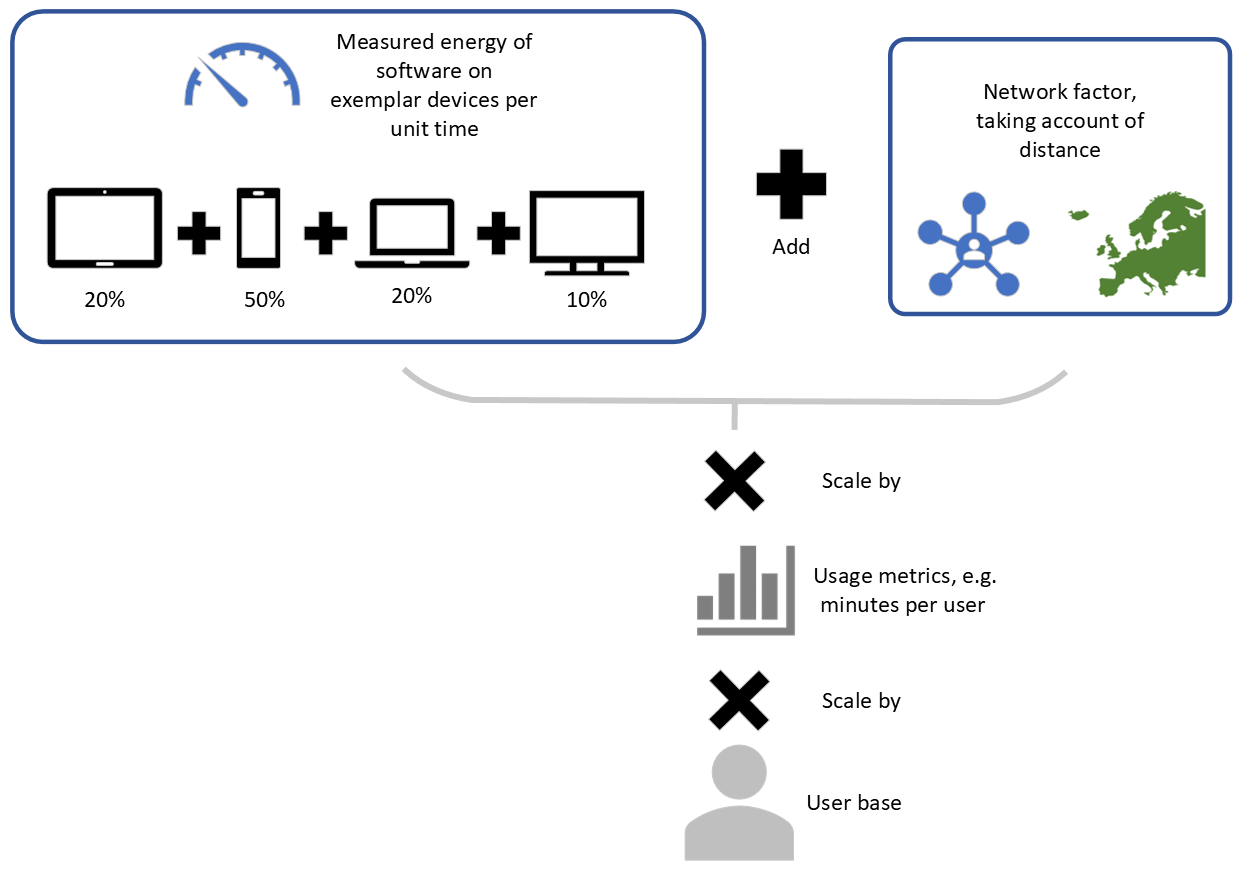
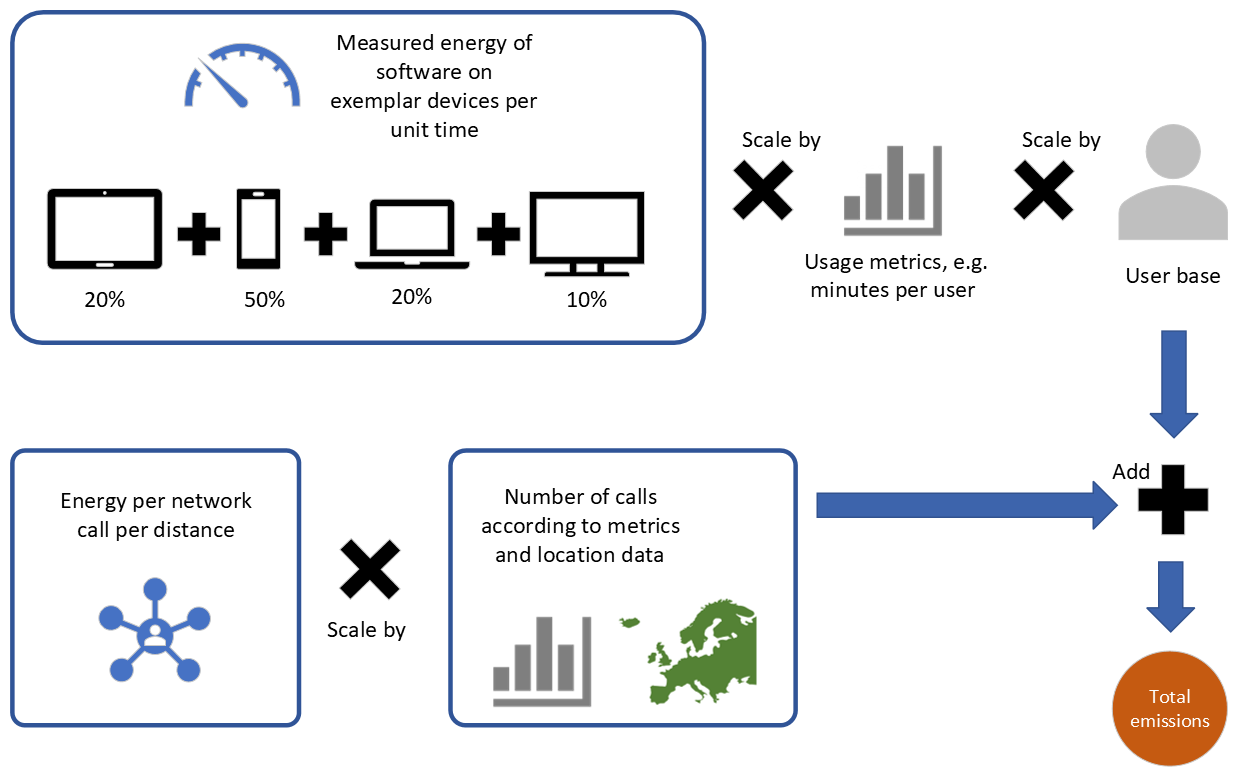
Further improvements to estate mapping

diff --git a/pages/information/estate.md b/pages/information/estate.md
@@ -9,7 +9,7 @@ published: true
 
 This page discusses how to apply the Tech Carbon Standard (TCS) to an organisation. Whilst the main [TCS diagram](https://www.techcarbonstandard.org/) specifies the different categories of technology emissions that should be recorded it doesn't explain how to go from an organisational view to numbers in each of the categories. This following sections address this and do so from 2 perspectives:
  1. Quantifying your tech carbon emissions at the org level - typically for reporting
- 2. Understanding how to improve them
+ 2. Understanding how to reduce them
 
 The second requires an understanding not just of the absolute number across the org but also of where emissions fall from a team and service perspective so that emissions improvements can be driven by the teams who can affect them.
 
@@ -94,13 +94,13 @@ Starting with on-prem hardware, many organisations will have some or all of the 
 
 <img style="max-width: 650px" class="none" alt="" src="/assets/images/estate/On-prem-extended.png" />
 
-A the top the diagram shows there may be multiple sites and each has a geographical location so the different sites could be in multiple countries which will impact the operational emissions. A given site could be a dedicated data centre or a more general location that includes technology components. This may include a dedicated server room but could also be odd pieces of hardware in the office. It would be expected that the dedicated site provided the bulk of emissions then the server rooms and then finally the miscallaneous equipment so it may be better to start on the left in mapping out an organisation. Note that on-site monitors and desktops are handled under organisation user devices later but could be included here - there's valid reasons for both approaches
+The top of the diagram shows there may be multiple sites and each has a geographical location which will impact the operational emissions due to varying carbon intensity. Next, it shows that a given site could be a dedicated data centre or a more general location that includes technology components. For example there may be a dedicated server room and/or odd pieces of hardware in the office. As indicated by the arrow at the bottom it would be expected that the dedicated site accounts for the bulk of emissions then the server rooms and then finally the miscallaneous equipment and so prioritisation should be done accordingly in mapping out an organisation. Note that on-site monitors and desktops are covered under organisation user devices later but could have been included here - there's valid reasons for both approaches.
 
-To get a complete picture of emissions all sites, their locations and all hardware within those sites must be identified as well as a PUE for each one. More detail is provided in the following sections.
+To get a complete picture of emissions all sites, their locations and all hardware within those sites must be identified as well as a <a href="/glossary#power-usage-effectiveness-pue">PUE</a> for each one to capture factors like server cooling. More detail on how to do this is provided in the following sub-sections.
 
 {% include linkedHeading.html heading="Device databases" level=3 %}
 
-In order to understand all the servers, networking devices etc the ideal data sources are configuration management databases (CMDBs) from robust IT asset management processes or platforms such as [ServiceNow](https://www.servicenow.com/uk/). 
+In order to understand all the servers, networking devices etc the ideal data source is a configuration management databases (CMDB) where robust IT asset management processes ensure that it is up to date with accurate and complete information. Various solutions exist including from Service Now, IBM, Microsoft and others. 
 
 In cases where data is incomplete, extrapolation from partial datasets can provide reasonable estimates. These sources may include partially completed asset management records, historic procurement data on devices purchased, employee headcounts per office location, or generic device-to-employee ratios based on job roles.
 
@@ -108,48 +108,56 @@ The accuracy of the underlying data will directly impact the precision of emissi
 
 {% include linkedHeading.html heading="Embodied emissions" level=3 %}
 
-Embodied emissions should be based on the asset database or approximations described above. Ideally the database includes manufacturer data about each asset's embodied carbon. Where this is not present approximations may be used based on typical values. See <a href="/information/lifecycle/example/server">Server example</a>
-The cooling and lighting boxes are in a different shade of green as these are out of the scope of the TCS for embodied emissions - you should still calculate them for full <a href="/glossary#greenhouse-gas-ghg-protocols">GHGP Scope 3</a>, it's just that this standard doesn't discuss them as they are not tech specific.
+Embodied emissions should be based on the asset database or approximations described above and ideally the CMDB records will include manufacturer data about each asset's embodied carbon although this isn't common yet. Where this is not present approximations may be used based on typical values - see <a href="/information/lifecycle/example/server">Server example</a> for some suggestions around how to do this. 
+
+In the earlier diagram the cooling and lighting boxes were in a different shade of green because they are not technology hardware but general purpose equipment that support it. For embodied emissions they are out of the scope of the TCS but you should still calculate them for full <a href="/glossary#greenhouse-gas-ghg-protocols">GHGP Scope 3</a> emissions. 
 
 {% include linkedHeading.html heading="Operational emissions - reporting" level=3 %}
 
 If an organisation needs to report the total company emissions including any technology ones then the task can be reduced to identifying all sites and then getting the electricity usage for them and the carbon intensity at that site. Where an office is leased and the organisation isn't directly billed then the overall building electricity bill should be divided up and attributed to each org by a measure such as employee count or square footage - though the latter is better suited to heating costs. 
 
-When reporting is wanted on technology specifically, e.g.if a CTO is asked to provide the emissions of all the teams and hardware that they are responsible for then the task is trickier.  
+When reporting is wanted on technology specifically, e.g.if a CTO is asked to provide the emissions of all the teams and hardware that they are responsible for then the task is more complex and discussed below. In an optimal scenario all equipment is actively measuring power and reporting back on this to a central location but this is not normally done today and so approximations must be made. 
 
-__Data centres__: Assuming no other organisation has equipment in this it should be the simplest case because as above the operational emissions can come directly from the building electricity usage which should be much more accurate than trying to approximate power for many different device classes. 
+Unlike for the embodied calculation the operational one must take account of the location and the electricity mix at that location including any on-site generators or renewables. 
 
-__Server rooms__: in an office or facility may or may not be measurable in isolation.  In the other cases it must be derived from the equipment database or approximated somehow, e.g. if rough numbers for lighting and non-IT electricity draw are known.  Unlike for the embodied calculation the operational one must take account of the location and the electricity mix at that location including any on-site generators or renewables. 
+__Data centres and server rooms__: Assuming only one organisation has equipment in the data centre this should be the simplest case because this is the one case where operational emissions can come directly from the building electricity usage. Otherwise this is the same as for a server room where the device inventory data must be used to get approximate numbers based on device power use.  
 
-For a data centre or server room the cooling, lighting etc are shown in a different shade in the above diagram as they are not tech products and for this reason they are not discussed in this standard. Nonetheless, in calculating your total operational emissions they should be included and it is standard when discussing data centre energy and emissions to include a PUE multiplier relating the compute/networking electricity from the supporting electricity for cooling and other devices. In fact it may be tricky to isolate these periphery devices for a data centre where they'll form part of the power draw. 
+In the embodied carbon section the building, heating, lighting etc for a data centre was out of scope because this standard is designed to help understand and optimise hardware and software. Nonetheless, in calculating total operational emissions for a data centre or anything at scale then it is conventional to include this for 2 reasons:
+ * It may be tricky to isolate these periphery devices for a data centre where they'll form part of the power draw
+ * When comparing the efficiency of cloud vs on-prem PUE is typically included because it can make a significant difference
+     *  e.g. 1.6 vs 1.2 for example respectively. (but bear in mind there can be negatives like more water usage).
+     * for embodied carbon there's no equivalent comparison of all the building and facility carbon
 
-__Office__: This is the most complicated scenario because there may be user laptops, monitors, lighting, heating etc as well as any server and networking hardware for running software. An aggregate measurement of operational emissions like the data centre electricity is not practical here if you want to specifically provide numbers for a particular device class. In this case the device database or approximations should also be employed and again real numbers for power usage and utilisation are preferred on a device by device basis but approximations can be made based on measuring one or two typical devices and applying to all.  
 
-{% include linkedHeading.html heading="Operational and embodied emissions - improvement" level=3 %}
+__Office__: This is the most complicated scenario because there may be user laptops, monitors, lighting, heating etc as well as any server and networking hardware for running software. An electricity measurement is not practical if you want to specifically provide numbers for a particular device class. In this case the device database or approximations should also be employed. 
+
+ When approximating power consumption one-off measurements can be used or data sheet information (combined with utilisation if not at max power all the time) and then this can be scaled out to capture the effect of all devices. 
+
+{% include linkedHeading.html heading="Reducing operational and embodied emissions" level=3 %}
 
 <img style="max-width: 650px" class="none" alt="" src="/assets/images/estate/business_services_breakdown.png" />
 
-In order to go beyond reporting and improve emissions it is necessary not just to to map out the hardware infrastructure owners but also the owners of the software running on the hardware because improvements can come from better software implementations as well as procuring more efficient hardware. In the business IT services diagram earlier, the business applications block can be broken down into various services offered by the business that are in turn implemented by particular applications (not shown) that are ultimately owned by particular technology teams who have the responsibility for developing and/or maintaining those applications (or for SaaS own the relationship).
+In order to go beyond reporting and improve emissions it is necessary not just to to map out the hardware infrastructure owners but also the owners of the software running on the hardware because improvements can come from better software implementations as well as procuring more efficient hardware. In the business IT services diagram earlier, the Business Applications block can be broken down into various services offered by the business that are in turn implemented by particular applications (not shown) that are ultimately owned by particular technology teams who have the responsibility for developing and/or maintaining those applications (or for SaaS own the relationship).
 
 With this in mind a more detailed mapping of the on-prem estate can be considered:
 
 <img style="max-width: 650px" class="none" alt="" src="/assets/images/estate/on-prem-responsibilities.png" />
 
-The diagram above presents the more complex mapping where improvement is required rather than just carbon reporting at org or tech function level. In this case there are layers for any virtualisation and then clustering that sit on top of the physical servers and then ultimately the applications belonging to different business application teams. 
+The diagram above presents the more complex mapping where improvement is required rather than just carbon reporting at org or tech function level. In this case there can be layers for virtualisation on top of the physical servers and/or clustering and then ultimately the applications belonging to different business application teams. 
 
-In this case the mapping must also take account of the layers that the Platform teams have added, e.g. a Kubernetes cluster and then the apps. Operational and embodied emissions should be assigned to particular apps either directly or directly via metrics such as utilisation and memory usage - exactly what to use it out of the scope of the TCS and for individual orgs to decide because it is heavily dependent on implementation. The key point for the estate mapping perspective is to relate the emissions to teams at different levels so that they can make improvements. e.g. the Platform team providing higher utilisation via containerisation or application owners with more efficient server code. 
+In this case the mapping must also take account of the layers that the Platform teams have added, e.g. a Kubernetes cluster and then the apps. Operational and embodied emissions should be assigned to particular apps either directly or indirectly via metrics such as utilisation and memory usage - exactly what to use is out of the scope of the TCS and for individual orgs to decide because it is heavily dependent on implementation. The key point for the estate mapping perspective is to relate the emissions to teams at different levels so that they can make improvements. e.g. the Platform team providing higher utilisation via containerisation or application owners with more efficient app code. 
 
 {% include linkedHeading.html heading="Cloud" level=2 %}
-Mapping out the cloud emissions should generally be a lot simpler than for on-prem hardware. A typical organisation will have a structure like the following:
+Mapping out the cloud emissions should generally be a lot simpler than for on-prem hardware. A typical organisation will have a cloud structure like the following:
 
 <img style="max-width: 750px" class="none" alt="" src="/assets/images/estate/cloud_structure.png" />
 
-Where terminology for the same concept various across the 3 largest providers this is included on the left. As shown there's usually an org level object and then a set of sub-objects that will often line up with organisational structure and the leaves of the tree are resources such as object storage buckets or VMs. Cloud reporting tools from the main cloud service providers (CSPs) or the Cloud Carbon Footprint (CCF) (see <a href="/information/cloud">Cloud</a>) will be able to provide a number at the root for the whole organisation. 
+Where terminology for the same concept varies across the 3 largest providers the alternative names are included on the left. As shown there's usually an org level object and then a set of sub-objects that will often line up with organisational structure and the leaves of the tree are resources such as object storage buckets or VMs. Cloud reporting tools from the main cloud service providers (CSPs) or the Cloud Carbon Footprint (CCF) (see <a href="/information/cloud">Cloud</a>) will be able to provide a number at the root for the whole organisation. 
 
 Where an organisation actually has multiple hierarchies, i.e. 1 real organisation to 2+ cloud ones these must all be identified and reported separately.  
 
-{% include linkedHeading.html heading="Improvement" level=3 %}
-As with data centres, improvement requires mapping of usage to business divisions and the development teams that own the services. The CSP tools and CCF will be able to report at the various levels of hierarchy down to Account. Complexities can arise in a couple of ways:
+{% include linkedHeading.html heading="Reducing emissions" level=3 %}
+As with data centres, reducing emissions requires mapping of usage to business divisions and the development teams that own the services. The CSP tools and CCF will be able to report at the various levels of hierarchy down to Account. Complexities can arise in a couple of ways:
  1. Where teams in the business don't align with cloud accounts or sub-orgs. One way this can happen is if many teams share an account and then tag with the owner. Some CSPs will include tag level data but some won't and nor will CCF and this will limit the ability to assign emissions to teams. 
  2. Some services may be provided by a platform team and shared across many applications, e.g. a database
 
@@ -157,39 +165,34 @@ In both cases proxies like spend, system utilisation can be used instead or numb
 
 
 
-{% include linkedHeading.html heading="Employee devices" level=2 %}
+{% include linkedHeading.html heading="Internal user devices" level=2 %}
 
-In this section the technology used by people is discussed and this may include the following more common devices:
+This section covers the technology used by the people internal to the organisation (not customers) where those people would typically be staff but could also be contributors to an open source project. 
+Their technology may include the following more common devices:
 
 <img style="max-width: 750px" class="none" alt="" src="/assets/images/estate/employee_devices.png" />
 
-Ownership, usage and location patterns will often differ compared to the servers and networking devices in the on-prem section:
+Ownership, usage and location patterns will often differ compared to the on-prem servers and networking devices in the following ways:
 
 * Usage will generally be based around office hours
 * User devices are assigned to individuals (or occasionally a team, e.g. a test device or TV) which makes attribution to teams much easier than for servers that may belong to a platform team but run multiple business apps from other teams
-* Although some devices will be in a fixed office/facility location, e.g. a desktop, others including laptops are mobile. Also monitors may be in a fixed home working location. 
-* For home devices staff or internal users (perhaps in an open source project) could be using their own monitors/equipment rather than ones purchased for them by the organisation. 
+* Although some devices like a desktop will be in a fixed office/facility location, others like laptops are mobile. Monitors may be in a fixed home working location as well or office. 
+* For home devices internal users could be using their own monitors/equipment rather than ones purchased for them by the organisation. 
 
-Note: occasionally it may be arguable as to whether a device belongs here or in on-prem and it doesn't matter so long as they are included. For example TVs maybe specific to a user, e.g, for testing a smart TV application but could also be providing a dashboard in the office in which case they are likely a permanent always on fixture like servers.  
+Note: occasionally it may be arguable as to whether a device belongs in this grouping or in on-prem and it doesn't matter so long as they are included - the category doesn't change. For example TVs may be specific to a user when provided for testing a smart TV application but could also be providing a dashboard in the office in which case they are likely a permanent always on fixture like servers.  
 
-
-
-<s>and these differ from the previously discussed servers, networking and cloud in terms of location, usage patterns and also because they are not usually running a specific application belonging to a specific business team (e.g. online payments) as with servers.</s>
-
- <s> From a pure reporting point of view most of these emissions may be accounted for in electricity usage numbers. </s> 
 
 {% include linkedHeading.html heading="Operational emissions - special case" level=4 %}
-As per the on-prem section, there is a special case for reporting operational emissions where all the organistion wants to do is report Scope 1 or 2 emissions at org or office/facility level and doesn't want to break out technology. In this case all the office/on-prem devices (including times when laptops are in the office and plugged in) will be included in the office electricity. In the remaining discussion it is assumed that the reporting should include a tech breakdown and that embodied (i.e. GHGP Scope 3) is needed as well as operational emissions.
+As per the on-prem section, there is a special case for reporting <em>operational</em> emissions where all the organistion wants to do is report Scope 1 or 2 emissions at org or office/facility level and doesn't want to break this down into technology classes. In this case all the office/on-prem devices (including times when laptops are in the office and plugged in) will be included in the office electricity. In the remaining discussion it is assumed that the reporting should include a tech breakdown and that embodied (i.e. GHGP Scope 3) is needed as well as operational emissions.
 
 {% include linkedHeading.html heading="Device inventory" level=3 %}
-All equipment purchased by the organisation should be available via an asset management system, as mentioned in the on-prem section. Where this isn't present approximations will be needed based on employee numbers. For user devices the data should include the location which may be not just a specific office or org facility but whether it is for remote working or both in the case of a laptop. This matters because electricity carbon intensity may be different. 
+All equipment purchased by the organisation should be available via a CMDB or some similar asset management system, as mentioned in the on-prem section. Where this isn't present approximations will be needed based on employee numbers. For user devices the data should include the location which may be not just a specific office or org facility but whether it is for remote working or both in the case of a laptop. This matters because electricity carbon intensity may be different. 
 
-For user purchased devices (e.g. personal laptop or monitor) numbers are still needed. For laptops this can be approximated by assuming all users without an org laptop or desktop have a personal one. For monitors, a survey may be done of a subset of staff then extrapolated to get the typical number of monitors and their size. General population data could be used but may underestimate for staff like developers. 
-Similarly for personal laptops or desktops a survey will help understand the typical specs in order to provide some average numbers that can scaled across the population.
+For user purchased devices (e.g. a personal laptop or monitor) numbers are still needed. For laptops this can be approximated by assuming all users without an org laptop or desktop have a personal one. For monitors, a survey may be done of a subset of staff then extrapolated to get the typical number of monitors and their size and the same for for personal laptops to understand the most common specs in order to provide some average numbers that can scaled across the population. Where you have no data from employees and are approximating based on general purpose data about most popular laptops or monitors bear in mind that developers may have slightly higher spec equipment as the use case is more demanding than basic web use. 
 
 {% include linkedHeading.html heading="Reporting" level=3 %}
 
-Given that not all devices are organisation purchased this affects how emissions should be reported and is captured in the following table. This shows that embodied carbon is only for organisation devices with the assumption being that user personal laptops would be purchased anyway and can't be attributed. 
+Given that not all devices are organisation purchased this affects how emissions should be reported and is captured in the following table. This shows that embodied carbon is only captured for organisation purchased devices with the assumption being that personal laptops would be purchased anyway and can't be attributed. 
 
 
 <style>
@@ -211,18 +214,18 @@ Given that not all devices are organisation purchased this affects how emissions
 </tr>
 <tr>
     <td>User</td>
-    <td>Yes</td>
+    <td>No</td>
     <td>Yes</td>
 </tr>
 </table>
 
-Ideally embodied carbon will fall directly out of the inventory data and should be combined with device lifetime information. e.g. if a company laptop is refreshed every 5 years then the embodied carbon for al devices should be divided by 5. Where embodied carbon is not included in the inventory or can't quickly be derived through cross referencing data sheets, then approximations can be made using emissions data for similar hardware. e.g. if you have 200 desktops and the manufacturer doesn't provide a value then take a desktop of similar spec and age that does and use the value from that. Such approximations should be explicitly captured. 
+Ideally embodied carbon will come directly from CMDB inventory data and then be combined with device lifetime information. e.g. if a company laptop is refreshed every 5 years then the embodied carbon for all devices should be divided by 5 for an annual amount. Where embodied carbon is not included in the inventory or can't be quickly be derived through cross referencing data sheets, then approximations can be made using emissions data for similar hardware. e.g. if you have 200 desktops and the manufacturer doesn't provide a value then take a desktop of similar spec and age that does and use the value from that. Such approximations should be explicitly captured. 
 
-For operational emissions the ownership of the device doesn't matter like for embodied carbon, but whether the user is using the device for non-personal reasons does. For example, for a laptop working hours emissions should be captured but not weekend browsing. For all the devices that are mobile or home based the electricity carbon intensity should come from the regional level whereas for fixed office/facility items more accuracy may be possible, e.g. if an office is known to be 50% solar on average. 
+For operational emissions the ownership of the device doesn't matter, but whether the user is using the device for non-personal reasons does. For example, working hours emissions should be captured for a laptop but not weekend browsing. For all the devices that are mobile or home based the electricity carbon intensity should come from the regional level whereas for fixed office/facility items more accuracy may be possible, e.g. if an office is known to be 50% solar on average. 
 
-Energy usage can come from the information in the inventory and as with the embodied carbon this may be directly in the inventory or need looking up in data sheets. Ideally laptops and desktops would actually capture energy usage but this is unlikely to the the case for most organisations today.
+As for embodied carbon energy usage can come from the information in the inventory or be looked up in data sheets. 
 
-Care should be taken to avoid double counting any equipment. For example for monitors assumptions will be required based on how often users will be in the office vs at home and emissions only attributed to one of the 2 at a given point in time. 
+Care should be taken to avoid double counting any equipment. For example, when reporting monitor emissions assumptions will be required based on how often users will be in the office vs at home and emissions only attributed to one of the two at a given point in time. 
 
 The table below captures some of the things to consider for various device types:
 
@@ -239,12 +242,12 @@ The table below captures some of the things to consider for various device types
 </tr>
 <tr>
     <td>Desktops</td>
-    <td>Device power, working hours, average CPU utilisation</td>
+    <td>Device max power and average CPU utilisation (or average measured power), working hours</td>
 </tr>
 
 <tr>
     <td>Laptops</td>
-    <td>Device power, working hours, average CPU utilisation, percentage of time outside the office</td>
+    <td>Device max power and average CPU utilisation (or average measured power), working hours, percentage of time outside the office</td>
 </tr>
 <tr>
     <td >Monitors</td>    
@@ -263,14 +266,15 @@ The table below captures some of the things to consider for various device types
     <td>Device power consumption and usage, e.g. 2 hours a day</td>
 </tr>
 </table>
-Device power may be specific or for 1 or 2 exemplar devices where not available which will always be the case for user owned devices. 
+Device power may be specific or if this isn't available for all devices then estimated based on for 1 or 2 exemplar devices - this will always be the case for user owned devices. 
  
 
-{% include linkedHeading.html heading="Improving" level=3 %}
-For servers and cloud the analysis for improvement was more complex than reporting but the opposite is true for devices. In the case of servers there was not just the question of hardware embodied emissions and harware energy consumption but also the way the servers were utilised and the efficiency of the software running on them. That software could in turn be mapped to teams who managed or developed it. 
+{% include linkedHeading.html heading="Reducing emissions" level=3 %}
+For servers and cloud the analysis for reducing emissions was more complex than reporting but the opposite is true for devices. In the case of servers there was not just the question of hardware embodied emissions and harware energy consumption but also the way the servers were utilised and the efficiency of the software running on them. That software could in turn be mapped to teams who managed or developed it. 
 
-Clear this isn't the case for monitors but also for laptops the software running on them isn't the main concern as the bulk of the carbon will be from their manufacture not the use (TODO insert link).
-User owned devices (like personal laptops) can be ignored and the focus can be on changing the default choices of device purchased by the org. e.g. if there are 1 or 2 procurement teams then all that matters is the choices of devices bought, their longevity and disposal. 
+Clearly this isn't the case for monitors but also for laptops the software running on them isn't the main concern as the 
+<a href="/information/lifecycle#embodied-vs-usage-carbon">bulk of the carbon will be from their manufacture not the use</a>.
+User owned devices (like personal laptops) can be ignored. Therefore, for reducing emissione the focus will be on procurement policy and on changing the default choices of device purchased by the org. e.g. if there are 1 or 2 procurement teams then all that matters is the choices of devices bought, their longevity and disposal. 
 
 {% include linkedHeading.html heading="End user devices" level=2 %}
 As a reminder, this is primarily about the emissions caused by consumers using the organisation's services. Popular games and social media apps in particular may cause users to spend additional hours every week on their phone/tablet/device, using electricity as they do. 
@@ -280,11 +284,11 @@ There's broadly 3 types of end user/consumer device:
  * IoT devices which may be provided by the organisation selling the software
  * Servers for service to service communication
 
-The following sections go through each of these. A judgement should be taken as to whether the downstream emissions are worth calculating in any depth. For example, if customer numbers are in the hundreds or less or if API calls are in the thousands per day it is quite likely these emissions will just be noise vs other tech emissions. On the other hand, a video streaming or gaming app with hundreds of thousands of users using the app for hours at shouldn't be ignored. Start with rough approximations based on the information in <a href="/categories/downstream">Downstream</a> and what follows before deciding whether to go any further. 
+The following sections go through each of these. A judgement should be taken as to whether the downstream emissions are worth calculating in any depth. For example, if customer numbers are in the hundreds or less or even if API calls are in the thousands per day it is quite likely these emissions will just be noise vs other tech emissions. On the other hand, a video streaming or gaming app with hundreds of thousands of users using the app each day for hours a time shouldn't be ignored. Start with rough approximations based on the information in <a href="/categories/downstream">Downstream</a> and the following sub-sections before deciding whether to go any further. 
 
 
 {% include linkedHeading.html heading="Consumer devices" level=3 %}
-
+The picture below illustrates the process of working out your total emissions from consumer devices: 
 <img style="max-width: 650px" class="none" alt="" src="/assets/images/estate/devices_process.png" />
 
 As described in <a href="/information/lifecycle/user">Hardware Emissions</a> it should be possible to obtain estimates of average energy usage per unit time for an app or site on various device types. e.g. via Firefox profiling for a website/app on 2 or 3 common laptops. This will then need scaling across the user base. 
@@ -320,18 +324,19 @@ The precise details of all the phones, tablets etc running your software or acce
 </tr>
 </table>
 
-Where this isn't all available a rough approximations can still be made, e.g. if you don't know the device breakdown there may be public info about content consumption via device for similar websites or apps.
+Where this isn't all available a rough approximations can still be made, e.g. if you don't know the device breakdown there may be publicly available info for similar websites or apps.
 
 With this information the average energy on device of a particular type (like tablet) in a given time period (e.g. per minute) can be multiplied by the data about number of devices and average usage per day/week/year. Location data can then be used to get carbon intensity for the users in order to provide the final emissions.
 
-For networking energy you may look at app the metrics for APIs called to understand total traffic across endpoints or you can use device analytics to capture total data sent from the app. With the former you'll need to aggregate metrics from lots of serverside locations - some of which for SaaS endpoints may not be in your control. The alternative option of using device analytics will allow you to get all network traffic in one go although you may still want to break this down, e.g, if one heavily hit endpoint is running the other side of the world and so more energy intensive vs others in the same country. 
+For networking energy, metrics for server-side API calls would be one way to understand total traffic across endpoints but it does mean there's a need to aggregate metrics from lots of server-side locations - some of which could be SaaS and unavailable. Alternatively device analytics can capture total data sent from the app which will allow all network traffic to be provided in one go whilst still allowing for a breakdown to show what endpoints are generating the most traffic. 
 
+A more basic option would be to analyse the typical network activity per minute of app interaction and just add this on to the device energy usage as an extra factor before scaling by time and the user count. 
 
 {% include linkedHeading.html heading="IoT" level=3 %}
-An example of this would be a smart camera or a sensor. This is very similar to consumer devices for energy usage except that:
+An example of this would be a smart camera or a sensor. The key differences to the consumer devices discussed above are:
 
- * the devices being used are known - unlike the hundreds of laptop models
- * usage patterns will be different but known, e.g. on all the time but in low power mode with a regular awake and check cycle or powerup-on-activity
+ * the devices being used are known - unlike the hundreds of potential laptop models
+ * usage patterns will be different but known, e.g. on all the time or in low power mode with a regular awake and check cycle
 
 For these reasons it should be easier to get an accurate energy per device for IoT devices. 
 
@@ -346,30 +351,30 @@ Rather than a consumer or user in another business using an organisation's servi
 In this case the only information available will be the number of API calls and possibly location data, either from knowledge of the customer or based on IP lookups. 
 
 
-{% include linkedHeading.html heading="Improvement" level=3 %}
-Starting with device energy (as opposed to network) where improvement is needed then the same data is useful as per the reporting - energy on device types for typical usage scaled out by the number of users and devices. Location doesn't matter here as it can't be controlled for customers.
+{% include linkedHeading.html heading="Reducing emissions" level=3 %}
+To reduce device energy (as opposed to network) the same data is useful as per the reporting, that is the energy on typical device types for typical usage scaled out by the number of users and devices. Location doesn't matter for the purpose of reducing emissions as it can't be controlled for customers.
 
-Normally a site or app will be owned by a particular team so this is much easier to map than for servers running the software of many teams. The exception is a micro-frontend architecture or an app with many plugins where certain pages or page sections are very power hungry compared to others. This should be possible to identify via energy profiling so that the total energy can be attributed to the separate pages and teams for driving improvement. 
+Normally a site or app will be owned by a particular team so this is much easier to map than for servers running the software of many teams. The exception is a micro-frontend architecture or an app with many plugins where certain pages or page sections are very power hungry compared to others. The power hungry pages should identifiable via energy profiling so that the total energy can be attributed to the separate pages and teams for driving improvement. 
 
-For networking, API endpoints should be mapped to business services and the development teams or SaaS products responsible. e.g. an app calls 15 different services but 80% of traffic is to one of them then 80% of emissions can be attributed to that team. Attribution may be done by number of requests and/or data transferred; there's not a definitive right way as data transferred would capture large unnessary payloads but miss cases of excessive TLS connections being setup.  
+For networking, as shown in the diagram below API endpoints should be mapped to business services and the development teams or SaaS products responsible. e.g. an app calls 15 different services but 80% of traffic is to one of them then 80% of emissions can be attributed to that team. Attribution may be done by number of requests and/or data transferred; there's not a definitive right way as data transferred would capture large unnessary payloads but miss cases of excessive TLS connections being setup by a very "chatty" API.  
 
 <img style="max-width: 550px" class="none" alt="" src="/assets/images/estate/api_to_business.png" />
 
 {% include linkedHeading.html heading="Mapping large organisations" level=2 %} 
 
-For a small to medium size organistion of, for example, 100 employees, then the organisation will typically be in a single line of business and have a relatively straightforward hierarchical structure. There may still be challenges in mapping the technical estate and deriving emissions but the problem is understood. 
+For a small to medium size organisation (e.g. 250 employees), then the org will typically be in a single line of business and have a relatively straightforward hierarchical structure. There may still be challenges in mapping the technical estate and deriving emissions but the problem is understood. 
 
 <img style="max-width: 550px" class="none" alt="" src="/assets/images/estate/large_org.png" />
 
-In larger and/or more complex organisations it is not so simple. Often an organisation does multiple things and may have various separate subsidiaries that are not aligned or only partially aligned from a tech perspective. This may stem from an acquisition whereby there has yet to be full tech re-platforming. It may be that some HR systems and single-sign on is provided across the complete organisation but otherwise a subsidiary is run independently.
-
-The level at which the mapping exercise is carried out relates more to business architecture and business needs than technology. For example, if 2 subsidiaries are run very independently then it may make sense to have the mapping exercise be done independently with separate upstream operational cloud, on prem etc figures given to each with the option to then roll up. 
+In larger and/or more complex organisations it is not so simple. Often, as in the diagram above an organisation does multiple things and may have various separate subsidiaries that are not aligned or only partially aligned from a tech perspective. This may stem from an acquisition whereby there has yet to be full re-platforming or just that the 2 brands do very different things. Government or university departments are another example where IT teams will exist at different layers and be quite independent. There may be a mixed picture as shown below where some HR systems and single-sign on are provided across the complete group nisation but otherwise a subsidiary is run independently.
 
 <img style="max-width: 550px" class="none" alt="" src="/assets/images/estate/large_org_share.png" />
 
-Where this can be more complex is when there is some sharing. In this case we may either pull out the shared functions or have one unit treat the other as a SaaS product. e.g. imagine a flight booking company also has a hotel business that is largely separate but shares the HR system and we are trying to assess the emissions of the hotel business and look for improvements. We may choose to ignore this and say it'll be dealt with when considering the flight part of the business. Or if we want to report for scope 3 as fully as possible then we may just treat it as a SaaS product that we approximate early on and later attribute a percentage of emissions to.
+The level at which the mapping exercise is carried out relates more to business architecture and business needs than technology. For example, if 2 subsidiaries are run very independently then it may make sense to have the mapping exercise be done independently with separate upstream operational cloud, on prem etc figures calculated for each which then may be rolled up at the group level.  
 
-It should also be born in mind that as with financial cost, where there are duplicated functions across different parts of a complex org, then this will result in duplicated emissions and from an analysis point of view this is useful to know unless there is a deliberate design to keep the business areas separate, for example, for future sales. 
+Where this can be more complex is when there is some sharing as in the previous diagram. In this case the options are to either pull out the shared functions or have one unit treat the other as a SaaS product. e.g. imagine a flight booking company also has a hotel business that is largely separate but shares the HR system where the ask is to assess the emissions of the hotel business and look for improvements. The HR system could be ignored since it'll be dealt with when considering the flight part of the business. Or, to report for scope 3 as fully as possible, then it could be treated it as a SaaS product for which a proportion of emissions are attributed to the hotel business. 
 
-This implies therefore that whilst it is fine to perform the mapping exercise at sub-org levels, once all are done they should be compared in terms of the business services supported by IT and where they are aligned and not. 
+It should also be born in mind that as with financial cost, where there are duplicated functions across different parts of a complex org, then this will result in duplicated emissions and from an analysis point of view this is useful to know unless there is a deliberate design to keep the business areas separate, for example, for a future sale. 
+
+This implies therefore that whilst it is fine to perform the mapping exercise at sub-group levels, once all are done they should be compared in terms of the business services supported by IT and where they are aligned and not. 
 
